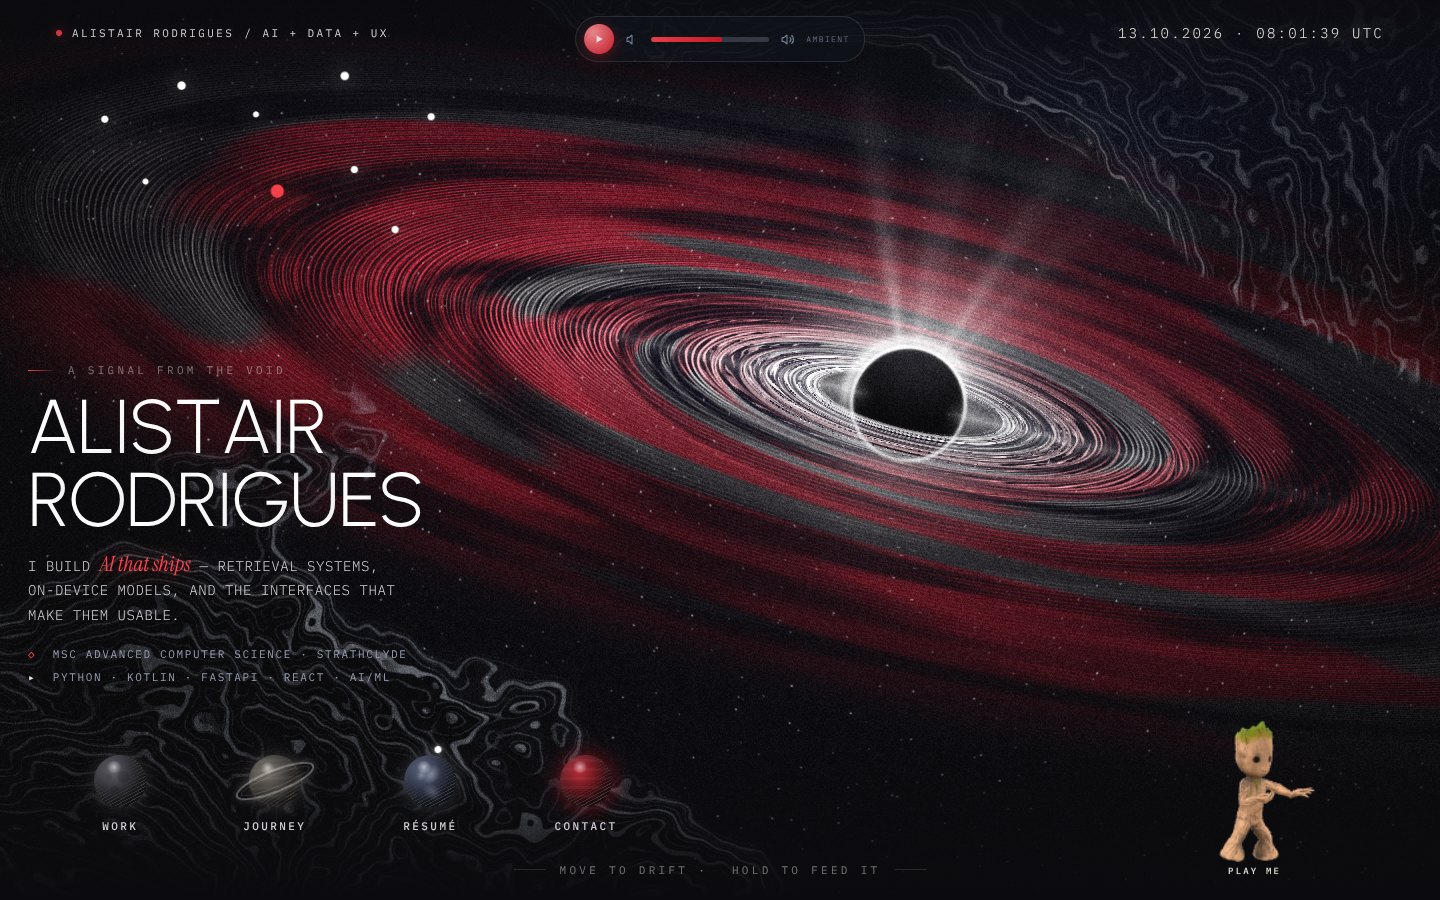
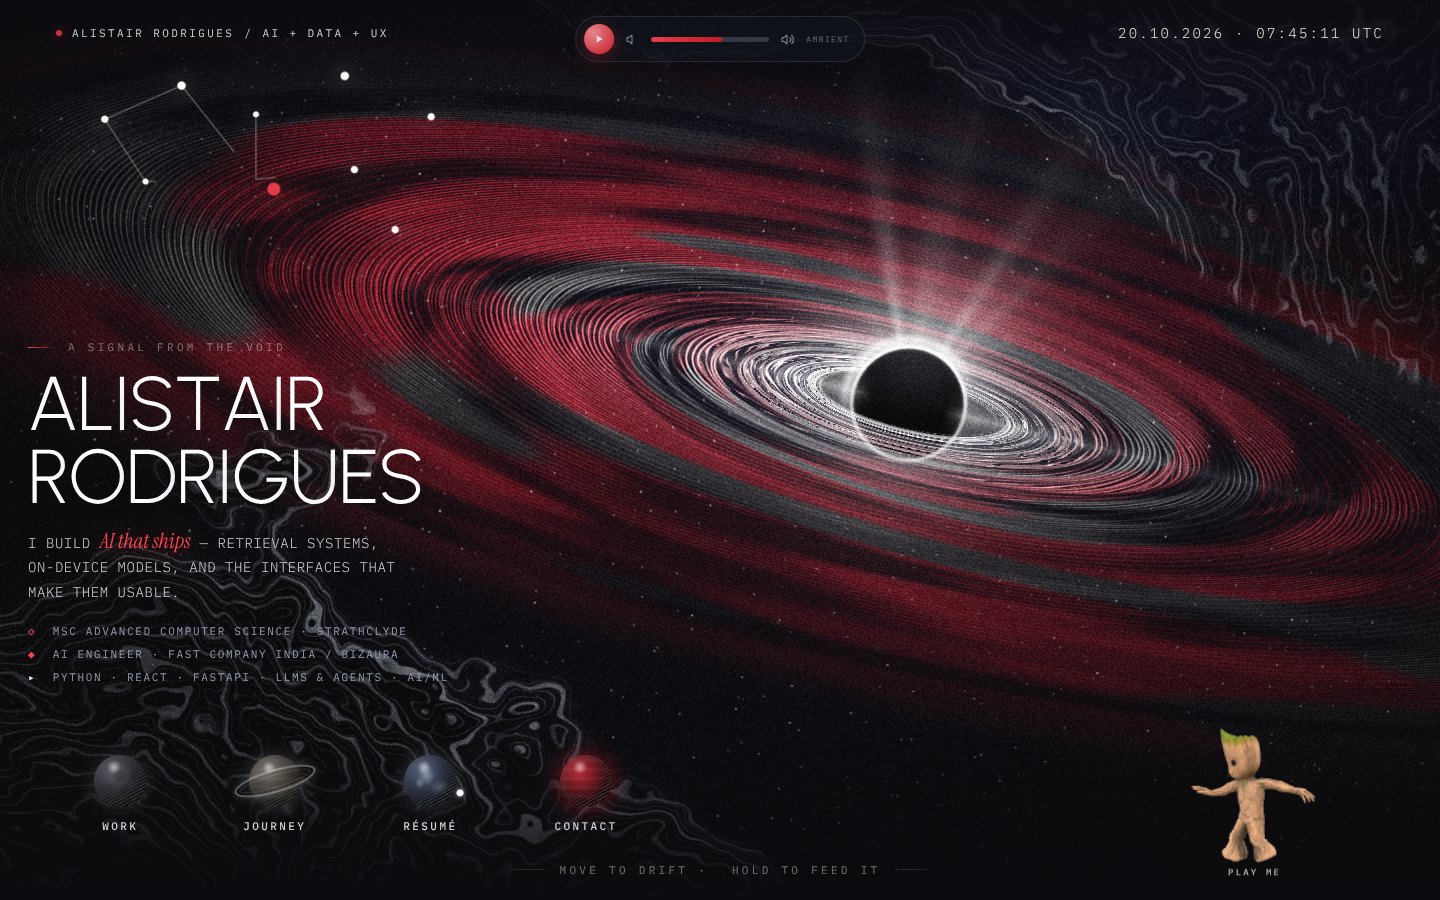
feat(finder): AI projects up front, web work behind a Web tab; AI Engineer role in hero
Finder (Observer section)
- All Work / Projects now lead with the Professional Portfolio (the one web
  project shown up front), then RAGStar, Agent Orchestrator, Agent Evals.
- New "Web" sidebar tab holds HawkAI Login and Quantasphere; GitHub-synced
  repos classed as web land there too.
- The site's own repo (comos_Alistair_portfolio) is no longer synced in as a
  project, and "Cosmos Hero.png" is off the front (still in Experiments).

Hero
- Adds "AI Engineer · Fast Company India / Bizaura" under the MSc line.
- Stack line: Python · React · FastAPI · LLMs & Agents · AI/ML.

README: refreshed hero, phone, Observer and Finder screenshots; Observer
description mentions the Web tab.

Claude-Session: https://claude.ai/code/session_015pYCkSWb3QZMS1jhky79RR

diff --git a/index.html b/index.html
@@ -283,7 +283,7 @@
   .desktop-sidebar span.sb-item{display:flex;align-items:center;gap:var(--space-2);border-radius:7px;padding:6px 10px;color:#e4e4e8;font-family:-apple-system,BlinkMacSystemFont,sans-serif;font-size:var(--text-sm);font-weight:500}
   .desktop-sidebar span.sb-item i{width:15px;height:15px;border-radius:4px;flex-shrink:0;background:#0a84ff}
   .desktop-sidebar span.sb-item.is-active{background:rgba(255,255,255,.1)}
-  .sb-item--proj i{background:#30d158}.sb-item--case i{background:#bf5af2}.sb-item--res i{background:#ff9f0a}.sb-item--exp i{background:#ff453a}.sb-item--pics i{background:#64d2ff}
+  .sb-item--proj i{background:#30d158}.sb-item--web i{background:#64d2ff}.sb-item--case i{background:#bf5af2}.sb-item--res i{background:#ff9f0a}.sb-item--exp i{background:#ff453a}.sb-item--pics i{background:#64d2ff}
   .desktop-pane{position:relative;background:linear-gradient(160deg,rgba(38,38,44,.36),rgba(22,22,28,.36));padding:clamp(20px,3vw,34px)}
   .desktop-pane-head{display:flex;align-items:baseline;justify-content:space-between;gap:var(--space-4);margin-bottom:22px}
   .desktop-pane h2{font-family:var(--font-display);font-weight:400;font-size:var(--text-2xl);line-height:1;margin:0;color:#f4f4f7;letter-spacing:var(--tr-normal)}
@@ -1098,7 +1098,7 @@
       <p class="hero-kicker">A SIGNAL FROM THE VOID</p>
       <h1 id="sig-name" class="hero-name hero-headline-wrap"></h1>
       <p class="hero-sub hero-sub-wrap">I build <span class="accent">AI that ships</span> — retrieval systems, on-device models, and the interfaces that make them usable.</p>
-      <p class="hero-sub-wrap" style="margin-top:16px;font-family:var(--font-mono);font-size:11px;letter-spacing:.15em;text-transform:uppercase;color:#8f98ad;line-height:2.1"><span style="color:#ff3b47">◇</span>&nbsp; MSc Advanced Computer Science · Strathclyde<br><span style="color:#e9e4df">▸</span>&nbsp; Python · Kotlin · FastAPI · React · AI/ML</p>
+      <p class="hero-sub-wrap" style="margin-top:16px;font-family:var(--font-mono);font-size:11px;letter-spacing:.15em;text-transform:uppercase;color:#8f98ad;line-height:2.1"><span style="color:#ff3b47">◇</span>&nbsp; MSc Advanced Computer Science · Strathclyde<br><span style="color:#ff3b47">◆</span>&nbsp; AI Engineer · Fast Company India / Bizaura<br><span style="color:#e9e4df">▸</span>&nbsp; Python · React · FastAPI · LLMs &amp; Agents · AI/ML</p>
     </div>
 
     <div class="hero-planets" aria-label="Primary signals">
@@ -1230,22 +1230,23 @@
           <span class="sb-item is-active" data-section="all"><i></i>All Work</span>
           <span class="sb-item sb-item--proj" data-section="projects"><i></i>Projects</span>
           <span class="sb-item sb-item--case" data-section="agents"><i></i>AI Agents</span>
+          <span class="sb-item sb-item--web" data-section="web"><i></i>Web</span>
           <span class="sb-head">Locations</span>
           <span class="sb-item sb-item--res" data-section="resume"><i></i>Résumé</span>
         </aside>
         <div class="desktop-pane">
           <div class="desktop-pane-head">
             <h2 id="desktopTitle">All Work</h2>
-            <small id="desktopMeta">11 items · updated today</small>
+            <small id="desktopMeta">10 items · updated today</small>
           </div>
           <div class="desktop-files" id="desktopFiles">
-            <div class="desktop-file" data-action="open-folder" data-folder="hawkai"><div class="ico ico--folder"></div><span class="label">HawkAI Login</span></div>
-            <div class="desktop-file" data-action="open-folder" data-folder="quantasphere"><div class="ico ico--folder p"></div><span class="label">Quantasphere</span></div>
+            <div class="desktop-file" data-action="open-folder" data-folder="professional_portfolio_website"><div class="ico ico--folder"></div><span class="label">Professional Portfolio</span></div>
             <div class="desktop-file" data-action="open-folder" data-folder="ragstar"><div class="ico ico--folder o"></div><span class="label">RAGStar</span></div>
+            <div class="desktop-file" data-action="open-folder" data-folder="agent_orchestrator"><div class="ico ico--folder"></div><span class="label">Agent Orchestrator</span></div>
+            <div class="desktop-file" data-action="open-folder" data-folder="agent_evals"><div class="ico ico--folder o"></div><span class="label">Agent Evals</span></div>
             <div class="desktop-file" data-action="open-folder" data-folder="study_snippets"><div class="ico ico--folder g"></div><span class="label">Study Snippets</span></div>
             <div class="desktop-file" data-action="open-folder" data-folder="health_weight"><div class="ico ico--folder p"></div><span class="label">Health Weight</span></div>
             <div class="desktop-file" data-action="open-folder" data-folder="experiments"><div class="ico ico--folder"></div><span class="label">Experiments</span></div>
-            <div class="desktop-file" data-action="quick-look" data-file="uploads/mac-space-reference.jpeg" data-name="Cosmos Hero.png"><div class="ico ico--img"></div><span class="label">Cosmos Hero.png</span></div>
             <div class="desktop-file" data-action="open-link" data-url="uploads/resume.pdf"><div class="ico ico--doc"></div><span class="label">Résumé.pdf</span></div>
             <div class="desktop-file" data-action="open-folder" data-folder="education"><div class="ico ico--folder g"></div><span class="label">Education</span></div>
           </div>
@@ -3629,6 +3630,7 @@ void main() {
     }
     // ---- desktop sidebar and filesystem navigation ----
     const projectMeta = {
+      professional_portfolio_website: { letter:'P', bg:'#101c46', fg:'#a9c1ff', tag:'WEB', tagClass:'web', desc:'Professional portfolio website', date:'2026 · Portfolio' },
       hawkai: { letter:'H', bg:'#101c46', fg:'#a9c1ff', tag:'WEB', tagClass:'web', desc:'3D login — React, Three.js, Ant Design', date:'2026 · Featured' },
       quantasphere: { letter:'Q', bg:'#101c46', fg:'#a9c1ff', tag:'WEB', tagClass:'web', desc:'Cursor-driven video scrub hero', date:'2026 · Interactive' },
       ragstar: { letter:'R', bg:'#3a070d', fg:'#ff8088', tag:'AI', tagClass:'ai', desc:'Hybrid search RAG pipeline', date:'2026 · AI' },
@@ -3639,27 +3641,34 @@ void main() {
     };
 
     const fileSystem = {
+      // Front of the Finder: the Professional Portfolio (the one web project shown here), then AI work.
+      // Other web projects live behind the Web tab.
       all: [
-        { name: 'HawkAI Login', type: 'folder', color: '', proj: 'hawkai' },
-        { name: 'Quantasphere', type: 'folder', color: 'p', proj: 'quantasphere' },
+        { name: 'Professional Portfolio', type: 'folder', color: '', proj: 'professional_portfolio_website' },
         { name: 'RAGStar', type: 'folder', color: 'o', proj: 'ragstar' },
-        { name: 'Study Snippets', type: 'folder', color: 'g', proj: 'study_snippets' },
-        { name: 'Health Weight', type: 'folder', color: 'p', proj: 'health_weight' },
         { name: 'Agent Orchestrator', type: 'folder', color: '', proj: 'agent_orchestrator' },
         { name: 'Agent Evals', type: 'folder', color: 'o', proj: 'agent_evals' },
+        { name: 'Study Snippets', type: 'folder', color: 'g', proj: 'study_snippets' },
+        { name: 'Health Weight', type: 'folder', color: 'p', proj: 'health_weight' },
         { name: 'Experiments', type: 'folder', color: '', proj: 'experiments' },
-        { name: 'Cosmos Hero.png', type: 'image', file: 'uploads/mac-space-reference.jpeg', size: '57 KB' },
         { name: 'Résumé.pdf', type: 'pdf', file: 'uploads/resume.pdf', size: '142 KB' },
         { name: 'Education', type: 'folder', color: 'g', proj: 'education' }
       ],
       projects: [
-        { name: 'HawkAI Login', type: 'project', icon: 'uploads/hawkai-thumb.svg', proj: 'hawkai' },
-        { name: 'Quantasphere', type: 'project', icon: 'uploads/quantasphere-thumb.jpg', proj: 'quantasphere' },
+        { name: 'Professional Portfolio', type: 'project', icon: '', proj: 'professional_portfolio_website' },
         { name: 'RAGStar', type: 'project', icon: 'uploads/ragstar-thumb.svg', proj: 'ragstar' },
-        { name: 'Study Snippets', type: 'project', icon: 'uploads/study-snippets-thumb.svg', proj: 'study_snippets' },
-        { name: 'Health Weight', type: 'project', icon: 'uploads/health-weight-thumb.svg', proj: 'health_weight' },
         { name: 'Agent Orchestrator', type: 'project', icon: '', proj: 'agent_orchestrator' },
-        { name: 'Agent Evals', type: 'project', icon: '', proj: 'agent_evals' }
+        { name: 'Agent Evals', type: 'project', icon: '', proj: 'agent_evals' },
+        { name: 'Study Snippets', type: 'project', icon: 'uploads/study-snippets-thumb.svg', proj: 'study_snippets' },
+        { name: 'Health Weight', type: 'project', icon: 'uploads/health-weight-thumb.svg', proj: 'health_weight' }
+      ],
+      web: [
+        { name: 'HawkAI Login', type: 'project', icon: 'uploads/hawkai-thumb.svg', proj: 'hawkai' },
+        { name: 'Quantasphere', type: 'project', icon: 'uploads/quantasphere-thumb.jpg', proj: 'quantasphere' }
+      ],
+      professional_portfolio_website: [
+        { name: 'GitHub Repository.lnk', type: 'link', url: 'https://github.com/Alistair77/professional-portfolio-website', target: '_blank', size: 'GitHub' },
+        { name: 'Documentation.lnk', type: 'link', url: 'https://github.com/Alistair77/professional-portfolio-website/blob/main/README.md', target: '_blank', size: 'Doc Link' }
       ],
       hawkai: [
         { name: 'Login Screen.png', type: 'image', file: 'projects/Screenshot 2026-05-25 at 2.12.59 PM.png', size: '3.0 MB' },
@@ -3703,8 +3712,9 @@ void main() {
     };
 
     const desktopSections = {
-      all: { title: 'All Work', meta: '11 items · updated today', folderKey: 'all' },
-      projects: { title: 'Projects', meta: '7 projects · click to explore', folderKey: 'projects' },
+      all: { title: 'All Work', meta: `${fileSystem.all.length} items · updated today`, folderKey: 'all' },
+      projects: { title: 'Projects', meta: `${fileSystem.projects.length} projects · click to explore`, folderKey: 'projects' },
+      web: { title: 'Web', meta: `${fileSystem.web.length} projects · web & interactive`, folderKey: 'web' },
       agents: {
         title: 'AI Agents',
         meta: 'architecture map · reasoning chains',
@@ -4016,7 +4026,7 @@ void main() {
     const getFolderHtml = (key) => {
       const items = fileSystem[key];
       if (!items) return '';
-      const isProjects = key === 'projects';
+      const isProjects = key === 'projects' || key === 'web';
       const html = items.map(item => {
         if (item.type === 'folder') {
           return `<div class="desktop-file" data-action="open-folder" data-folder="${item.proj}" data-name="${item.name}">
@@ -4322,6 +4332,7 @@ void main() {
         repos.forEach(repo => {
           if (!repo || repo.fork) return;
           if (!Array.isArray(repo.topics) || !repo.topics.includes('portfolio')) return;
+          if ((repo.name || '').toLowerCase() === 'comos_alistair_portfolio') return;   // this site itself
           const key = slug(repo.name);
           if (!key || existing.has(key)) return;
           existing.add(key);
@@ -4336,8 +4347,12 @@ void main() {
             date: yr + ' · GitHub'
           };
           const display = title(repo.name);
-          fileSystem.projects.push({ name: display, type: 'project', icon: '', proj: key });
-          fileSystem.all.push({ name: display, type: 'folder', color: '', proj: key });
+          if (t.tagClass === 'web') {
+            fileSystem.web.push({ name: display, type: 'project', icon: '', proj: key });
+          } else {
+            fileSystem.projects.push({ name: display, type: 'project', icon: '', proj: key });
+            fileSystem.all.push({ name: display, type: 'folder', color: '', proj: key });
+          }
           fileSystem[key] = [
             { name: 'GitHub Repository.lnk', type: 'link', url: repo.html_url, target: '_blank', size: 'GitHub' },
             { name: 'Documentation.lnk', type: 'link', url: repo.html_url + '/blob/' + (repo.default_branch || 'main') + '/README.md', target: '_blank', size: 'Doc Link' }
@@ -4348,7 +4363,8 @@ void main() {
         if (added.length) {
           desktopSections.all.meta = `${fileSystem.all.length} items · updated today`;
           desktopSections.projects.meta = `${fileSystem.projects.length} projects · click to explore`;
-          if (currentFolderKey === 'all' || currentFolderKey === 'projects') {
+          desktopSections.web.meta = `${fileSystem.web.length} projects · web & interactive`;
+          if (currentFolderKey === 'all' || currentFolderKey === 'projects' || currentFolderKey === 'web') {
             renderFolder(currentFolderKey, desktopTitle.textContent, finderHistory.length > 0);
           }
         }

diff --git a/README.md b/README.md
@@ -27,7 +27,7 @@ A black hole drawn like an engraving: hair-thin orbital streaks banded in crimso
 A scrolling brand marquee (Vercel, Linear, Stripe…) on a 3D tilt.
 
 ### The Observer — selected work
-A poetic intro over the starfield, then a macOS-style Finder window: **All Work**, **Projects**, **AI Agents** (an interactive architecture map) and **Résumé**, with Quick Look previews. Repositories tagged `portfolio` on GitHub appear in it automatically.
+A poetic intro over the starfield, then a macOS-style Finder window. The front views (**All Work**, **Projects**) lead with the Professional Portfolio and the AI projects; other web work sits behind the **Web** tab. Also **AI Agents** (an interactive architecture map) and **Résumé**, with Quick Look previews. Repositories tagged `portfolio` on GitHub appear automatically (web repos under Web).
 
 ![The Observer](docs/screenshots/observer.jpg)
 ![Finder — Projects](docs/screenshots/work.jpg)
